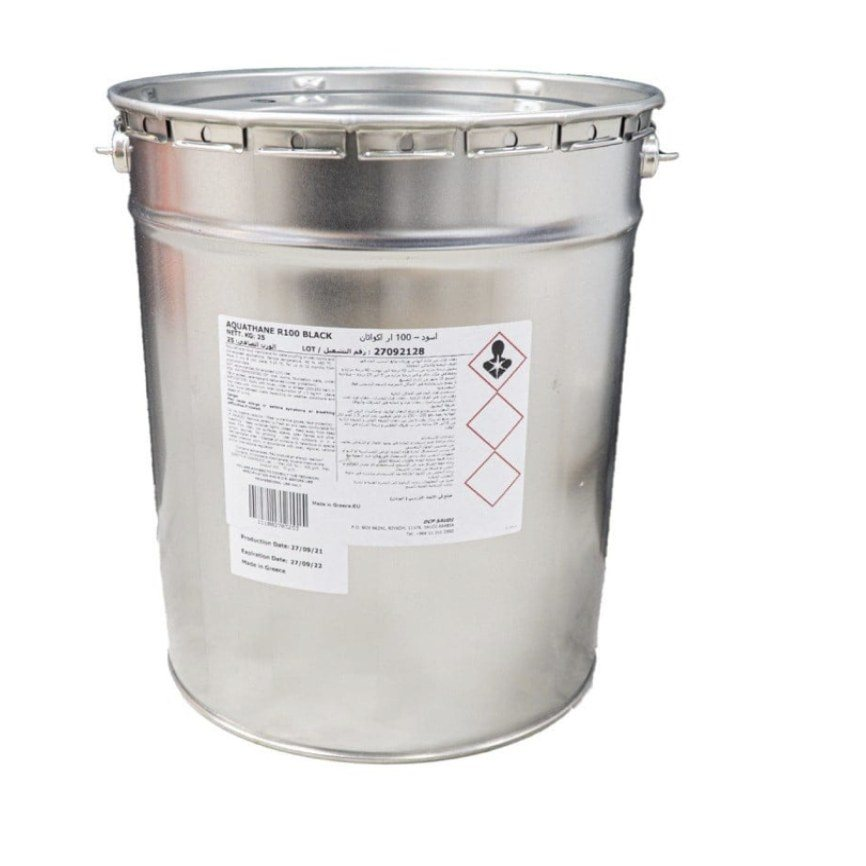
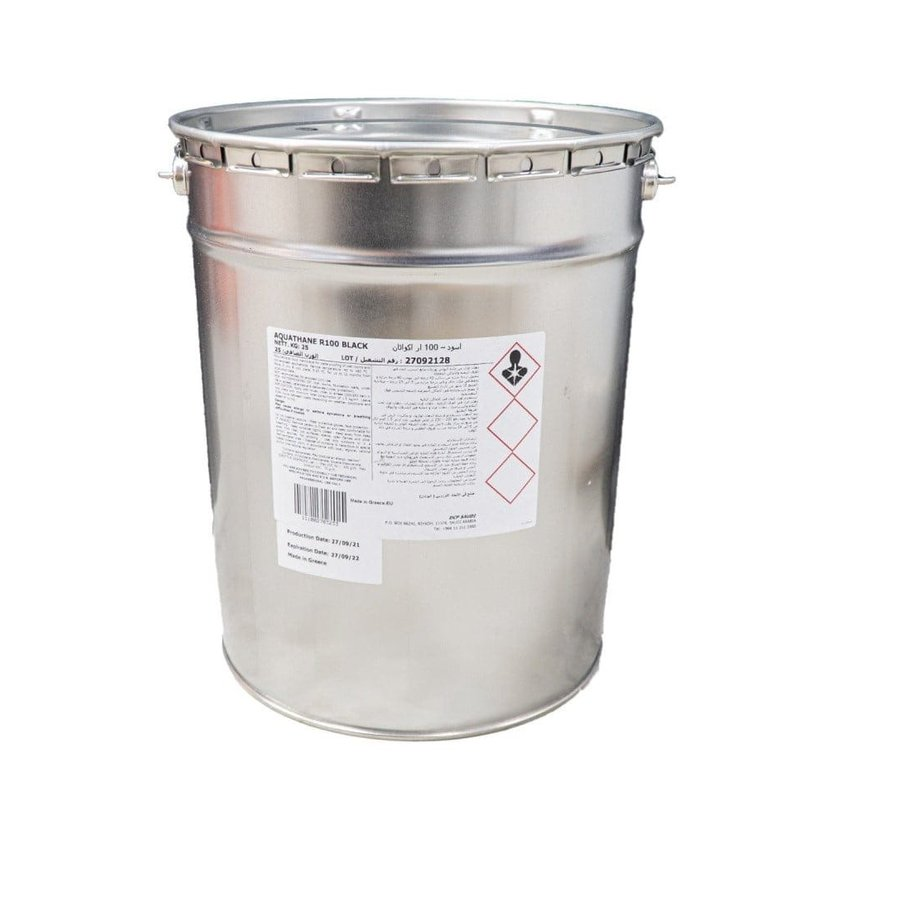
Store: replace product photos with clean originals, variant image for weberjoint
Claude-Session: https://claude.ai/code/session_01L7aFpuZDN8bdeKYBYfcc1B

Changed region(s): [[0.1247, 0.0624, 0.7794, 0.9042]]

diff --git a/store/index.html b/store/index.html
@@ -12,7 +12,7 @@
 <link rel="icon" href="/assets/mark.png">
 <link rel="preconnect" href="https://fonts.googleapis.com"><link rel="preconnect" href="https://fonts.gstatic.com" crossorigin>
 <link href="https://fonts.googleapis.com/css2?family=Noto+Kufi+Arabic:wght@600;700;800&family=Almarai:wght@400;700;800&display=swap" rel="stylesheet">
-<link rel="stylesheet" href="/store/assets/store.css?v=1">
+<link rel="stylesheet" href="/store/assets/store.css?v=2">
 <script type="application/ld+json">{"@context": "https://schema.org", "@type": "ItemList", "name": "متجر وهاد البنيان لمواد العزل", "itemListElement": [{"@type": "ListItem", "position": 1, "url": "https://www.wehadcoo.com/store/weberdry-150-blc/", "name": "ويبر دراي 150 BLC"}, {"@type": "ListItem", "position": 2, "url": "https://www.wehadcoo.com/store/spcf-silver/", "name": "سلفر — دهان عازل مائي أكريليك"}, {"@type": "ListItem", "position": 3, "url": "https://www.wehadcoo.com/store/starproof-pud-337/", "name": "ستار بروف PUD-337"}, {"@type": "ListItem", "position": 4, "url": "https://www.wehadcoo.com/store/strongcoat-pe350/", "name": "سترونج كوت PE350"}, {"@type": "ListItem", "position": 5, "url": "https://www.wehadcoo.com/store/expansion-joint-foam/", "name": "فلين فواصل التمدد"}, {"@type": "ListItem", "position": 6, "url": "https://www.wehadcoo.com/store/strongcoat-epw/", "name": "سترونج كوت EPW"}, {"@type": "ListItem", "position": 7, "url": "https://www.wehadcoo.com/store/delmon-lastroof/", "name": "الاستوروف — عازل مطاطي للأسطح"}, {"@type": "ListItem", "position": 8, "url": "https://www.wehadcoo.com/store/delmon-durashield/", "name": "ديوراشيلد — عازل دورات المياه"}, {"@type": "ListItem", "position": 9, "url": "https://www.wehadcoo.com/store/zat-pp-fibers/", "name": "ألياف زات PP لتقوية الخرسانة"}, {"@type": "ListItem", "position": 10, "url": "https://www.wehadcoo.com/store/weberjoint/", "name": "ويبر جوينت — ترويبة إسمنتية"}, {"@type": "ListItem", "position": 11, "url": "https://www.wehadcoo.com/store/weberepox-easy/", "name": "ويبر إيبوكس إيزي"}, {"@type": "ListItem", "position": 12, "url": "https://www.wehadcoo.com/store/dcp-setseal-c/", "name": "سيت سيل C"}, {"@type": "ListItem", "position": 13, "url": "https://www.wehadcoo.com/store/polybit-polyflex/", "name": "بولي فلكس"}, {"@type": "ListItem", "position": 14, "url": "https://www.wehadcoo.com/store/weberdry-110-fx/", "name": "ويبر دراي 110 FX"}, {"@type": "ListItem", "position": 15, "url": "https://www.wehadcoo.com/store/strongcoat-400-plus/", "name": "سترونج كوت 400 بلس"}, {"@type": "ListItem", "position": 16, "url": "https://www.wehadcoo.com/store/arkaz-eneseal-pu/", "name": "إنسيل PU — سيلانت فواصل التمدد"}, {"@type": "ListItem", "position": 17, "url": "https://www.wehadcoo.com/store/polybit-polycoat/", "name": "بولي كوت — عازل القواعد"}, {"@type": "ListItem", "position": 18, "url": "https://www.wehadcoo.com/store/dcp-aquaguard-600/", "name": "أكوا جارد 600"}, {"@type": "ListItem", "position": 19, "url": "https://www.wehadcoo.com/store/dcp-aquathane-r100/", "name": "أكواثان R100"}, {"@type": "ListItem", "position": 20, "url": "https://www.wehadcoo.com/store/pvc-waterstop/", "name": "ووتر ستوب أزرق"}]}</script>
 </head>
 <body>
@@ -144,7 +144,7 @@
     </div>
   </div>
 </article><article class="card" data-cat="joints" data-q="ويبر جوينت — ترويبة إسمنتية weberjoint ترويبة بلاط إسمنتية Weber · ويبر">
-  <a href="/store/weberjoint/" class="card-img"><img src="/store/img/weberjoint.jpg" alt="ويبر جوينت — ترويبة إسمنتية" loading="lazy" width="600" height="600"></a>
+  <a href="/store/weberjoint/" class="card-img"><img src="/store/img/weberjoint.jpg" alt="ويبر جوينت — ترويبة إسمنتية" loading="lazy" width="600" height="600" class="cov"></a>
   <div class="card-body">
     <span class="brand-t">Weber · ويبر</span>
     <h3><a href="/store/weberjoint/">ويبر جوينت — ترويبة إسمنتية</a></h3>
@@ -177,7 +177,7 @@
     </div>
   </div>
 </article><article class="card" data-cat="cement" data-q="بولي فلكس Polybit Polyflex عازل إسمنتي مرن ثنائي المكونات Henkel Polybit · هنكل بوليبت">
-  <a href="/store/polybit-polyflex/" class="card-img"><img src="/store/img/polyflex.jpg" alt="بولي فلكس" loading="lazy" width="600" height="600"></a>
+  <a href="/store/polybit-polyflex/" class="card-img"><img src="/store/img/polyflex.jpg" alt="بولي فلكس" loading="lazy" width="600" height="600" class="cov"></a>
   <div class="card-body">
     <span class="brand-t">Henkel Polybit · هنكل بوليبت</span>
     <h3><a href="/store/polybit-polyflex/">بولي فلكس</a></h3>
@@ -199,7 +199,7 @@
     </div>
   </div>
 </article><article class="card" data-cat="wet" data-q="سترونج كوت 400 بلس DCP Strongcoat 400 Plus إيبوكسي عزل خزانات المياه DCP">
-  <a href="/store/strongcoat-400-plus/" class="card-img"><img src="/store/img/strongcoat-400plus.jpg" alt="سترونج كوت 400 بلس" loading="lazy" width="600" height="600"></a>
+  <a href="/store/strongcoat-400-plus/" class="card-img"><img src="/store/img/strongcoat-400plus.jpg" alt="سترونج كوت 400 بلس" loading="lazy" width="600" height="600" class="cov"></a>
   <div class="card-body">
     <span class="brand-t">DCP</span>
     <h3><a href="/store/strongcoat-400-plus/">سترونج كوت 400 بلس</a></h3>
@@ -288,7 +288,7 @@
 </div>
 <div class="toast" id="toast" role="status" aria-live="polite"></div>
 <script>window.WEHAD_API="https://script.google.com/macros/s/AKfycbxpFTQC9pVZK1AZOQ7nzzNt7HpwVoqfOZjSZ5l0cFBCJinjIjsWhcJo6287wrbz6fr61w/exec";window.WEHAD_WA="966552027770";</script>
-<script src="/store/assets/products.js?v=1"></script>
-<script src="/store/assets/store.js?v=1"></script>
+<script src="/store/assets/products.js?v=2"></script>
+<script src="/store/assets/store.js?v=2"></script>
 </body>
 </html>

diff --git a/store/weberjoint/index.html b/store/weberjoint/index.html
@@ -12,7 +12,7 @@
 <link rel="icon" href="/assets/mark.png">
 <link rel="preconnect" href="https://fonts.googleapis.com"><link rel="preconnect" href="https://fonts.gstatic.com" crossorigin>
 <link href="https://fonts.googleapis.com/css2?family=Noto+Kufi+Arabic:wght@600;700;800&family=Almarai:wght@400;700;800&display=swap" rel="stylesheet">
-<link rel="stylesheet" href="/store/assets/store.css?v=1">
+<link rel="stylesheet" href="/store/assets/store.css?v=2">
 <meta property="og:image" content="https://www.wehadcoo.com/store/img/weberjoint.jpg"><script type="application/ld+json">{"@context": "https://schema.org", "@type": "Product", "name": "ويبر جوينت — ترويبة إسمنتية", "alternateName": "weberjoint", "image": "https://www.wehadcoo.com/store/img/weberjoint.jpg", "description": "ترويبة إسمنتية جاهزة لا تنكمش، لملء فواصل البلاط في الأماكن الجافة والرطبة. مقاومة للماء وسهلة التطبيق والتنظيف، ولا تحتاج إلا للخلط مع الماء.", "brand": {"@type": "Brand", "name": "Weber"}, "offers": {"@type": "Offer", "priceCurrency": "SAR", "price": 35, "availability": "https://schema.org/InStock", "url": "https://www.wehadcoo.com/store/weberjoint/", "seller": {"@type": "Organization", "name": "وهاد البنيان"}}}</script>
 </head>
 <body>
@@ -33,14 +33,14 @@
 <div class="wrap pd" data-product="weberjoint">
   <nav class="crumb" aria-label="مسار الصفحة"><a href="/">الرئيسية</a><span>/</span><a href="/store/">المتجر</a><span>/</span><a href="/store/#joints">الفواصل والترويبة</a></nav>
   <div class="pd-grid">
-    <div class="pd-img"><img src="/store/img/weberjoint.jpg" alt="ويبر جوينت — ترويبة إسمنتية" width="900" height="900"></div>
+    <div class="pd-img cov"><img src="/store/img/weberjoint.jpg" alt="ويبر جوينت — ترويبة إسمنتية" width="900" height="900"></div>
     <div class="pd-info">
       <span class="brand-t">Weber · ويبر</span>
       <h1>ويبر جوينت — ترويبة إسمنتية</h1>
       <p class="kind">ترويبة بلاط إسمنتية · 10 كجم · أبيض / بيج</p>
       <div class="pd-price"><b data-price>35</b> <small>ريال</small><em>السعر قبل ضريبة القيمة المضافة 15%</em></div>
       <p class="lead">ترويبة إسمنتية جاهزة لا تنكمش، لملء فواصل البلاط في الأماكن الجافة والرطبة. مقاومة للماء وسهلة التطبيق والتنظيف، ولا تحتاج إلا للخلط مع الماء.</p>
-      <div class="vars" role="radiogroup" aria-label="المقاس"><label class="var"><input type="radio" name="v" value="أبيض" data-price="35" checked><span>أبيض</span></label><label class="var"><input type="radio" name="v" value="بيج" data-price="35"><span>بيج</span></label></div>
+      <div class="vars" role="radiogroup" aria-label="المقاس"><label class="var"><input type="radio" name="v" value="أبيض" data-price="35" data-img="/store/img/weberjoint.jpg" checked><span>أبيض</span></label><label class="var"><input type="radio" name="v" value="بيج" data-price="35" data-img="/store/img/weberjoint-beige.jpg"><span>بيج</span></label></div>
       <div class="buy">
         <div class="qty" aria-label="الكمية"><button type="button" data-q="+1" aria-label="زيادة">+</button><input type="number" min="1" max="999" value="1" data-qty aria-label="الكمية"><button type="button" data-q="-1" aria-label="نقصان">−</button></div>
         <button type="button" class="btn-main" data-add-pd>أضف للسلة</button>
@@ -120,7 +120,7 @@
 </div>
 <div class="toast" id="toast" role="status" aria-live="polite"></div>
 <script>window.WEHAD_API="https://script.google.com/macros/s/AKfycbxpFTQC9pVZK1AZOQ7nzzNt7HpwVoqfOZjSZ5l0cFBCJinjIjsWhcJo6287wrbz6fr61w/exec";window.WEHAD_WA="966552027770";</script>
-<script src="/store/assets/products.js?v=1"></script>
-<script src="/store/assets/store.js?v=1"></script>
+<script src="/store/assets/products.js?v=2"></script>
+<script src="/store/assets/store.js?v=2"></script>
 </body>
 </html>

diff --git a/store/expansion-joint-foam/index.html b/store/expansion-joint-foam/index.html
@@ -12,7 +12,7 @@
 <link rel="icon" href="/assets/mark.png">
 <link rel="preconnect" href="https://fonts.googleapis.com"><link rel="preconnect" href="https://fonts.gstatic.com" crossorigin>
 <link href="https://fonts.googleapis.com/css2?family=Noto+Kufi+Arabic:wght@600;700;800&family=Almarai:wght@400;700;800&display=swap" rel="stylesheet">
-<link rel="stylesheet" href="/store/assets/store.css?v=1">
+<link rel="stylesheet" href="/store/assets/store.css?v=2">
 <meta property="og:image" content="https://www.wehadcoo.com/store/img/expansion-foam.jpg"><script type="application/ld+json">{"@context": "https://schema.org", "@type": "Product", "name": "فلين فواصل التمدد", "alternateName": "Expansion Joint Backer Rod", "image": "https://www.wehadcoo.com/store/img/expansion-foam.jpg", "description": "حشوة فلين مرنة تُوضع داخل فواصل التمدد قبل حشوها بمادة الفواصل (السيلانت). تحدد عمق الحشو المناسب، وتمنع التصاق السيلانت بقاع الفاصل فيتحرك بحرية مع التمدد والانكماش.", "brand": {"@type": "Brand", "name": "فلين فواصل"}, "offers": {"@type": "Offer", "priceCurrency": "SAR", "price": 80, "availability": "https://schema.org/InStock", "url": "https://www.wehadcoo.com/store/expansion-joint-foam/", "seller": {"@type": "Organization", "name": "وهاد البنيان"}}}</script>
 </head>
 <body>
@@ -56,7 +56,7 @@
     <p class="note">المعلومات مختصرة من النشرات الفنية للشركة المصنعة. للتطبيق الصحيح والكميات المناسبة لمساحتك تواصل مع فريقنا الفني.</p>
   </div>
   <section class="rel"><h2>منتجات قد تحتاجها</h2><div class="grid sm"><article class="card" data-cat="joints" data-q="ويبر جوينت — ترويبة إسمنتية weberjoint ترويبة بلاط إسمنتية Weber · ويبر">
-  <a href="/store/weberjoint/" class="card-img"><img src="/store/img/weberjoint.jpg" alt="ويبر جوينت — ترويبة إسمنتية" loading="lazy" width="600" height="600"></a>
+  <a href="/store/weberjoint/" class="card-img"><img src="/store/img/weberjoint.jpg" alt="ويبر جوينت — ترويبة إسمنتية" loading="lazy" width="600" height="600" class="cov"></a>
   <div class="card-body">
     <span class="brand-t">Weber · ويبر</span>
     <h3><a href="/store/weberjoint/">ويبر جوينت — ترويبة إسمنتية</a></h3>
@@ -120,7 +120,7 @@
 </div>
 <div class="toast" id="toast" role="status" aria-live="polite"></div>
 <script>window.WEHAD_API="https://script.google.com/macros/s/AKfycbxpFTQC9pVZK1AZOQ7nzzNt7HpwVoqfOZjSZ5l0cFBCJinjIjsWhcJo6287wrbz6fr61w/exec";window.WEHAD_WA="966552027770";</script>
-<script src="/store/assets/products.js?v=1"></script>
-<script src="/store/assets/store.js?v=1"></script>
+<script src="/store/assets/products.js?v=2"></script>
+<script src="/store/assets/store.js?v=2"></script>
 </body>
 </html>

diff --git a/store/delmon-durashield/index.html b/store/delmon-durashield/index.html
@@ -12,7 +12,7 @@
 <link rel="icon" href="/assets/mark.png">
 <link rel="preconnect" href="https://fonts.googleapis.com"><link rel="preconnect" href="https://fonts.gstatic.com" crossorigin>
 <link href="https://fonts.googleapis.com/css2?family=Noto+Kufi+Arabic:wght@600;700;800&family=Almarai:wght@400;700;800&display=swap" rel="stylesheet">
-<link rel="stylesheet" href="/store/assets/store.css?v=1">
+<link rel="stylesheet" href="/store/assets/store.css?v=2">
 <meta property="og:image" content="https://www.wehadcoo.com/store/img/durashield.jpg"><script type="application/ld+json">{"@context": "https://schema.org", "@type": "Product", "name": "ديوراشيلد — عازل دورات المياه", "alternateName": "Delmon Durashield", "image": "https://www.wehadcoo.com/store/img/durashield.jpg", "description": "عازل مائي من دلمون يُستخدم لعزل دورات المياه والأماكن غير المعرضة لأشعة الشمس المباشرة، ويوفر طبقة حماية تساعد على منع تسرب المياه والرطوبة وحماية الأسطح الخرسانية.", "brand": {"@type": "Brand", "name": "Delmon"}, "offers": {"@type": "Offer", "priceCurrency": "SAR", "price": 190, "availability": "https://schema.org/InStock", "url": "https://www.wehadcoo.com/store/delmon-durashield/", "seller": {"@type": "Organization", "name": "وهاد البنيان"}}}</script>
 </head>
 <body>
@@ -56,7 +56,7 @@
     <p class="note">المعلومات مختصرة من النشرات الفنية للشركة المصنعة. للتطبيق الصحيح والكميات المناسبة لمساحتك تواصل مع فريقنا الفني.</p>
   </div>
   <section class="rel"><h2>منتجات قد تحتاجها</h2><div class="grid sm"><article class="card" data-cat="wet" data-q="سترونج كوت 400 بلس DCP Strongcoat 400 Plus إيبوكسي عزل خزانات المياه DCP">
-  <a href="/store/strongcoat-400-plus/" class="card-img"><img src="/store/img/strongcoat-400plus.jpg" alt="سترونج كوت 400 بلس" loading="lazy" width="600" height="600"></a>
+  <a href="/store/strongcoat-400-plus/" class="card-img"><img src="/store/img/strongcoat-400plus.jpg" alt="سترونج كوت 400 بلس" loading="lazy" width="600" height="600" class="cov"></a>
   <div class="card-body">
     <span class="brand-t">DCP</span>
     <h3><a href="/store/strongcoat-400-plus/">سترونج كوت 400 بلس</a></h3>
@@ -120,7 +120,7 @@
 </div>
 <div class="toast" id="toast" role="status" aria-live="polite"></div>
 <script>window.WEHAD_API="https://script.google.com/macros/s/AKfycbxpFTQC9pVZK1AZOQ7nzzNt7HpwVoqfOZjSZ5l0cFBCJinjIjsWhcJo6287wrbz6fr61w/exec";window.WEHAD_WA="966552027770";</script>
-<script src="/store/assets/products.js?v=1"></script>
-<script src="/store/assets/store.js?v=1"></script>
+<script src="/store/assets/products.js?v=2"></script>
+<script src="/store/assets/store.js?v=2"></script>
 </body>
 </html>

diff --git a/store/dcp-setseal-c/index.html b/store/dcp-setseal-c/index.html
@@ -12,7 +12,7 @@
 <link rel="icon" href="/assets/mark.png">
 <link rel="preconnect" href="https://fonts.googleapis.com"><link rel="preconnect" href="https://fonts.gstatic.com" crossorigin>
 <link href="https://fonts.googleapis.com/css2?family=Noto+Kufi+Arabic:wght@600;700;800&family=Almarai:wght@400;700;800&display=swap" rel="stylesheet">
-<link rel="stylesheet" href="/store/assets/store.css?v=1">
+<link rel="stylesheet" href="/store/assets/store.css?v=2">
 <meta property="og:image" content="https://www.wehadcoo.com/store/img/setseal-c.jpg"><script type="application/ld+json">{"@context": "https://schema.org", "@type": "Product", "name": "سيت سيل C", "alternateName": "DCP Setseal C", "image": "https://www.wehadcoo.com/store/img/setseal-c.jpg", "description": "طلاء إسمنتي مرن عازل للماء ومعزّز بالأكريليك من DCP. غير سام ومناسب لخزانات مياه الشرب، ويتحمل ضغط مياه عاليًا يصل إلى 30 مترًا، ويصلح للتطبيقات الداخلية والخارجية.", "brand": {"@type": "Brand", "name": "DCP"}, "offers": {"@type": "Offer", "priceCurrency": "SAR", "price": 80, "availability": "https://schema.org/InStock", "url": "https://www.wehadcoo.com/store/dcp-setseal-c/", "seller": {"@type": "Organization", "name": "وهاد البنيان"}}}</script>
 </head>
 <body>
@@ -56,7 +56,7 @@
     <p class="note">المعلومات مختصرة من النشرات الفنية للشركة المصنعة. للتطبيق الصحيح والكميات المناسبة لمساحتك تواصل مع فريقنا الفني.</p>
   </div>
   <section class="rel"><h2>منتجات قد تحتاجها</h2><div class="grid sm"><article class="card" data-cat="cement" data-q="بولي فلكس Polybit Polyflex عازل إسمنتي مرن ثنائي المكونات Henkel Polybit · هنكل بوليبت">
-  <a href="/store/polybit-polyflex/" class="card-img"><img src="/store/img/polyflex.jpg" alt="بولي فلكس" loading="lazy" width="600" height="600"></a>
+  <a href="/store/polybit-polyflex/" class="card-img"><img src="/store/img/polyflex.jpg" alt="بولي فلكس" loading="lazy" width="600" height="600" class="cov"></a>
   <div class="card-body">
     <span class="brand-t">Henkel Polybit · هنكل بوليبت</span>
     <h3><a href="/store/polybit-polyflex/">بولي فلكس</a></h3>
@@ -120,7 +120,7 @@
 </div>
 <div class="toast" id="toast" role="status" aria-live="polite"></div>
 <script>window.WEHAD_API="https://script.google.com/macros/s/AKfycbxpFTQC9pVZK1AZOQ7nzzNt7HpwVoqfOZjSZ5l0cFBCJinjIjsWhcJo6287wrbz6fr61w/exec";window.WEHAD_WA="966552027770";</script>
-<script src="/store/assets/products.js?v=1"></script>
-<script src="/store/assets/store.js?v=1"></script>
+<script src="/store/assets/products.js?v=2"></script>
+<script src="/store/assets/store.js?v=2"></script>
 </body>
 </html>

diff --git a/store/dcp-aquathane-r100/index.html b/store/dcp-aquathane-r100/index.html
@@ -12,7 +12,7 @@
 <link rel="icon" href="/assets/mark.png">
 <link rel="preconnect" href="https://fonts.googleapis.com"><link rel="preconnect" href="https://fonts.gstatic.com" crossorigin>
 <link href="https://fonts.googleapis.com/css2?family=Noto+Kufi+Arabic:wght@600;700;800&family=Almarai:wght@400;700;800&display=swap" rel="stylesheet">
-<link rel="stylesheet" href="/store/assets/store.css?v=1">
+<link rel="stylesheet" href="/store/assets/store.css?v=2">
 <meta property="og:image" content="https://www.wehadcoo.com/store/img/aquathane-r100.jpg"><script type="application/ld+json">{"@context": "https://schema.org", "@type": "Product", "name": "أكواثان R100", "alternateName": "DCP Aquathane R100", "image": "https://www.wehadcoo.com/store/img/aquathane-r100.jpg", "description": "غشاء عزل سائل من البولي يوريثان أحادي المكون عالي الجودة، يلتصق بقوة بمعظم الأسطح ويسمح بمرور بخار الماء فيمنع تجمع الرطوبة تحت الطبقة. النسخة السوداء مخصصة للأماكن الرطبة والمناطق غير المكشوفة مثل دورات المياه.", "brand": {"@type": "Brand", "name": "DCP"}, "offers": {"@type": "Offer", "priceCurrency": "SAR", "price": 400, "availability": "https://schema.org/InStock", "url": "https://www.wehadcoo.com/store/dcp-aquathane-r100/", "seller": {"@type": "Organization", "name": "وهاد البنيان"}}}</script>
 </head>
 <body>
@@ -67,7 +67,7 @@
     </div>
   </div>
 </article><article class="card" data-cat="wet" data-q="سترونج كوت 400 بلس DCP Strongcoat 400 Plus إيبوكسي عزل خزانات المياه DCP">
-  <a href="/store/strongcoat-400-plus/" class="card-img"><img src="/store/img/strongcoat-400plus.jpg" alt="سترونج كوت 400 بلس" loading="lazy" width="600" height="600"></a>
+  <a href="/store/strongcoat-400-plus/" class="card-img"><img src="/store/img/strongcoat-400plus.jpg" alt="سترونج كوت 400 بلس" loading="lazy" width="600" height="600" class="cov"></a>
   <div class="card-body">
     <span class="brand-t">DCP</span>
     <h3><a href="/store/strongcoat-400-plus/">سترونج كوت 400 بلس</a></h3>
@@ -120,7 +120,7 @@
 </div>
 <div class="toast" id="toast" role="status" aria-live="polite"></div>
 <script>window.WEHAD_API="https://script.google.com/macros/s/AKfycbxpFTQC9pVZK1AZOQ7nzzNt7HpwVoqfOZjSZ5l0cFBCJinjIjsWhcJo6287wrbz6fr61w/exec";window.WEHAD_WA="966552027770";</script>
-<script src="/store/assets/products.js?v=1"></script>
-<script src="/store/assets/store.js?v=1"></script>
+<script src="/store/assets/products.js?v=2"></script>
+<script src="/store/assets/store.js?v=2"></script>
 </body>
 </html>

diff --git a/store/weberepox-easy/index.html b/store/weberepox-easy/index.html
@@ -12,7 +12,7 @@
 <link rel="icon" href="/assets/mark.png">
 <link rel="preconnect" href="https://fonts.googleapis.com"><link rel="preconnect" href="https://fonts.gstatic.com" crossorigin>
 <link href="https://fonts.googleapis.com/css2?family=Noto+Kufi+Arabic:wght@600;700;800&family=Almarai:wght@400;700;800&display=swap" rel="stylesheet">
-<link rel="stylesheet" href="/store/assets/store.css?v=1">
+<link rel="stylesheet" href="/store/assets/store.css?v=2">
 <meta property="og:image" content="https://www.wehadcoo.com/store/img/weberepox-easy.jpg"><script type="application/ld+json">{"@context": "https://schema.org", "@type": "Product", "name": "ويبر إيبوكس إيزي", "alternateName": "weberepox easy", "image": "https://www.wehadcoo.com/store/img/weberepox-easy.jpg", "description": "ترويبة ولاصق بلاط إيبوكسي ثنائي المكون عالي الأداء، يُنظف بالماء بسهولة، ويتميز بمقاومة ممتازة للكيماويات وقوة عالية. مناسب للأماكن التي تحتاج نظافة عالية أو تتعرض لمواد كيميائية.", "brand": {"@type": "Brand", "name": "Weber"}, "offers": {"@type": "Offer", "priceCurrency": "SAR", "price": 140, "availability": "https://schema.org/InStock", "url": "https://www.wehadcoo.com/store/weberepox-easy/", "seller": {"@type": "Organization", "name": "وهاد البنيان"}}}</script>
 </head>
 <body>
@@ -67,7 +67,7 @@
     </div>
   </div>
 </article><article class="card" data-cat="joints" data-q="ويبر جوينت — ترويبة إسمنتية weberjoint ترويبة بلاط إسمنتية Weber · ويبر">
-  <a href="/store/weberjoint/" class="card-img"><img src="/store/img/weberjoint.jpg" alt="ويبر جوينت — ترويبة إسمنتية" loading="lazy" width="600" height="600"></a>
+  <a href="/store/weberjoint/" class="card-img"><img src="/store/img/weberjoint.jpg" alt="ويبر جوينت — ترويبة إسمنتية" loading="lazy" width="600" height="600" class="cov"></a>
   <div class="card-body">
     <span class="brand-t">Weber · ويبر</span>
     <h3><a href="/store/weberjoint/">ويبر جوينت — ترويبة إسمنتية</a></h3>
@@ -120,7 +120,7 @@
 </div>
 <div class="toast" id="toast" role="status" aria-live="polite"></div>
 <script>window.WEHAD_API="https://script.google.com/macros/s/AKfycbxpFTQC9pVZK1AZOQ7nzzNt7HpwVoqfOZjSZ5l0cFBCJinjIjsWhcJo6287wrbz6fr61w/exec";window.WEHAD_WA="966552027770";</script>
-<script src="/store/assets/products.js?v=1"></script>
-<script src="/store/assets/store.js?v=1"></script>
+<script src="/store/assets/products.js?v=2"></script>
+<script src="/store/assets/store.js?v=2"></script>
 </body>
 </html>

diff --git a/store/arkaz-eneseal-pu/index.html b/store/arkaz-eneseal-pu/index.html
@@ -12,7 +12,7 @@
 <link rel="icon" href="/assets/mark.png">
 <link rel="preconnect" href="https://fonts.googleapis.com"><link rel="preconnect" href="https://fonts.gstatic.com" crossorigin>
 <link href="https://fonts.googleapis.com/css2?family=Noto+Kufi+Arabic:wght@600;700;800&family=Almarai:wght@400;700;800&display=swap" rel="stylesheet">
-<link rel="stylesheet" href="/store/assets/store.css?v=1">
+<link rel="stylesheet" href="/store/assets/store.css?v=2">
 <meta property="og:image" content="https://www.wehadcoo.com/store/img/eneseal-pu.jpg"><script type="application/ld+json">{"@context": "https://schema.org", "@type": "Product", "name": "إنسيل PU — سيلانت فواصل التمدد", "alternateName": "Eneseal PU", "image": "https://www.wehadcoo.com/store/img/eneseal-pu.jpg", "description": "مادة حشو فواصل أحادية المكون من البولي يوريثان، تُطبق بمسدس السيلانت وتتصلب برطوبة الجو إلى مادة مطاطية مرنة تتحمل حركة الفاصل وتمنع تسرب المياه.", "brand": {"@type": "Brand", "name": "Arkaz"}, "offers": {"@type": "Offer", "priceCurrency": "SAR", "price": 16, "availability": "https://schema.org/InStock", "url": "https://www.wehadcoo.com/store/arkaz-eneseal-pu/", "seller": {"@type": "Organization", "name": "وهاد البنيان"}}}</script>
 </head>
 <body>
@@ -67,7 +67,7 @@
     </div>
   </div>
 </article><article class="card" data-cat="joints" data-q="ويبر جوينت — ترويبة إسمنتية weberjoint ترويبة بلاط إسمنتية Weber · ويبر">
-  <a href="/store/weberjoint/" class="card-img"><img src="/store/img/weberjoint.jpg" alt="ويبر جوينت — ترويبة إسمنتية" loading="lazy" width="600" height="600"></a>
+  <a href="/store/weberjoint/" class="card-img"><img src="/store/img/weberjoint.jpg" alt="ويبر جوينت — ترويبة إسمنتية" loading="lazy" width="600" height="600" class="cov"></a>
   <div class="card-body">
     <span class="brand-t">Weber · ويبر</span>
     <h3><a href="/store/weberjoint/">ويبر جوينت — ترويبة إسمنتية</a></h3>
@@ -120,7 +120,7 @@
 </div>
 <div class="toast" id="toast" role="status" aria-live="polite"></div>
 <script>window.WEHAD_API="https://script.google.com/macros/s/AKfycbxpFTQC9pVZK1AZOQ7nzzNt7HpwVoqfOZjSZ5l0cFBCJinjIjsWhcJo6287wrbz6fr61w/exec";window.WEHAD_WA="966552027770";</script>
-<script src="/store/assets/products.js?v=1"></script>
-<script src="/store/assets/store.js?v=1"></script>
+<script src="/store/assets/products.js?v=2"></script>
+<script src="/store/assets/store.js?v=2"></script>
 </body>
 </html>

diff --git a/store/weberdry-110-fx/index.html b/store/weberdry-110-fx/index.html
@@ -12,7 +12,7 @@
 <link rel="icon" href="/assets/mark.png">
 <link rel="preconnect" href="https://fonts.googleapis.com"><link rel="preconnect" href="https://fonts.gstatic.com" crossorigin>
 <link href="https://fonts.googleapis.com/css2?family=Noto+Kufi+Arabic:wght@600;700;800&family=Almarai:wght@400;700;800&display=swap" rel="stylesheet">
-<link rel="stylesheet" href="/store/assets/store.css?v=1">
+<link rel="stylesheet" href="/store/assets/store.css?v=2">
 <meta property="og:image" content="https://www.wehadcoo.com/store/img/weberdry-110fx.jpg"><script type="application/ld+json">{"@context": "https://schema.org", "@type": "Product", "name": "ويبر دراي 110 FX", "alternateName": "weberdry 110 FX", "image": "https://www.wehadcoo.com/store/img/weberdry-110fx.jpg", "description": "طلاء إسمنتي عازل للماء ثنائي المكون معدّل بالبوليمر، يتصلب إلى غشاء مرن ومطاطي مناسب لخزانات مياه الشرب. يلتصق بقوة بالأسطح الإسمنتية ويتحمل ضغط المياه من الجهتين (الموجب والسالب).", "brand": {"@type": "Brand", "name": "Weber"}, "offers": {"@type": "Offer", "priceCurrency": "SAR", "price": 150, "availability": "https://schema.org/InStock", "url": "https://www.wehadcoo.com/store/weberdry-110-fx/", "seller": {"@type": "Organization", "name": "وهاد البنيان"}}}</script>
 </head>
 <body>
@@ -67,7 +67,7 @@
     </div>
   </div>
 </article><article class="card" data-cat="cement" data-q="بولي فلكس Polybit Polyflex عازل إسمنتي مرن ثنائي المكونات Henkel Polybit · هنكل بوليبت">
-  <a href="/store/polybit-polyflex/" class="card-img"><img src="/store/img/polyflex.jpg" alt="بولي فلكس" loading="lazy" width="600" height="600"></a>
+  <a href="/store/polybit-polyflex/" class="card-img"><img src="/store/img/polyflex.jpg" alt="بولي فلكس" loading="lazy" width="600" height="600" class="cov"></a>
   <div class="card-body">
     <span class="brand-t">Henkel Polybit · هنكل بوليبت</span>
     <h3><a href="/store/polybit-polyflex/">بولي فلكس</a></h3>
@@ -120,7 +120,7 @@
 </div>
 <div class="toast" id="toast" role="status" aria-live="polite"></div>
 <script>window.WEHAD_API="https://script.google.com/macros/s/AKfycbxpFTQC9pVZK1AZOQ7nzzNt7HpwVoqfOZjSZ5l0cFBCJinjIjsWhcJo6287wrbz6fr61w/exec";window.WEHAD_WA="966552027770";</script>
-<script src="/store/assets/products.js?v=1"></script>
-<script src="/store/assets/store.js?v=1"></script>
+<script src="/store/assets/products.js?v=2"></script>
+<script src="/store/assets/store.js?v=2"></script>
 </body>
 </html>

diff --git a/store/polybit-polyflex/index.html b/store/polybit-polyflex/index.html
@@ -12,7 +12,7 @@
 <link rel="icon" href="/assets/mark.png">
 <link rel="preconnect" href="https://fonts.googleapis.com"><link rel="preconnect" href="https://fonts.gstatic.com" crossorigin>
 <link href="https://fonts.googleapis.com/css2?family=Noto+Kufi+Arabic:wght@600;700;800&family=Almarai:wght@400;700;800&display=swap" rel="stylesheet">
-<link rel="stylesheet" href="/store/assets/store.css?v=1">
+<link rel="stylesheet" href="/store/assets/store.css?v=2">
 <meta property="og:image" content="https://www.wehadcoo.com/store/img/polyflex.jpg"><script type="application/ld+json">{"@context": "https://schema.org", "@type": "Product", "name": "بولي فلكس", "alternateName": "Polybit Polyflex", "image": "https://www.wehadcoo.com/store/img/polyflex.jpg", "description": "عازل مائي إسمنتي مرن ثنائي المكونات، معدّل بالأكريليك لحماية فعالة ضد تسرب المياه والرطوبة. يتصلب إلى طبقة قوية ومرنة، ومناسب لعزل دورات المياه والمطابخ والأسطح الخرسانية وفق توصيات الشركة المصنعة.", "brand": {"@type": "Brand", "name": "Henkel Polybit"}, "offers": {"@type": "Offer", "priceCurrency": "SAR", "price": 75, "availability": "https://schema.org/InStock", "url": "https://www.wehadcoo.com/store/polybit-polyflex/", "seller": {"@type": "Organization", "name": "وهاد البنيان"}}}</script>
 </head>
 <body>
@@ -33,7 +33,7 @@
 <div class="wrap pd" data-product="polybit-polyflex">
   <nav class="crumb" aria-label="مسار الصفحة"><a href="/">الرئيسية</a><span>/</span><a href="/store/">المتجر</a><span>/</span><a href="/store/#cement">العزل الإسمنتي</a></nav>
   <div class="pd-grid">
-    <div class="pd-img"><img src="/store/img/polyflex.jpg" alt="بولي فلكس" width="900" height="900"></div>
+    <div class="pd-img cov"><img src="/store/img/polyflex.jpg" alt="بولي فلكس" width="900" height="900"></div>
     <div class="pd-info">
       <span class="brand-t">Henkel Polybit · هنكل بوليبت</span>
       <h1>بولي فلكس</h1>
@@ -120,7 +120,7 @@
 </div>
 <div class="toast" id="toast" role="status" aria-live="polite"></div>
 <script>window.WEHAD_API="https://script.google.com/macros/s/AKfycbxpFTQC9pVZK1AZOQ7nzzNt7HpwVoqfOZjSZ5l0cFBCJinjIjsWhcJo6287wrbz6fr61w/exec";window.WEHAD_WA="966552027770";</script>
-<script src="/store/assets/products.js?v=1"></script>
-<script src="/store/assets/store.js?v=1"></script>
+<script src="/store/assets/products.js?v=2"></script>
+<script src="/store/assets/store.js?v=2"></script>
 </body>
 </html>

diff --git a/store/strongcoat-400-plus/index.html b/store/strongcoat-400-plus/index.html
@@ -12,7 +12,7 @@
 <link rel="icon" href="/assets/mark.png">
 <link rel="preconnect" href="https://fonts.googleapis.com"><link rel="preconnect" href="https://fonts.gstatic.com" crossorigin>
 <link href="https://fonts.googleapis.com/css2?family=Noto+Kufi+Arabic:wght@600;700;800&family=Almarai:wght@400;700;800&display=swap" rel="stylesheet">
-<link rel="stylesheet" href="/store/assets/store.css?v=1">
+<link rel="stylesheet" href="/store/assets/store.css?v=2">
 <meta property="og:image" content="https://www.wehadcoo.com/store/img/strongcoat-400plus.jpg"><script type="application/ld+json">{"@context": "https://schema.org", "@type": "Product", "name": "سترونج كوت 400 بلس", "alternateName": "DCP Strongcoat 400 Plus", "image": "https://www.wehadcoo.com/store/img/strongcoat-400plus.jpg", "description": "طلاء إيبوكسي واقٍ غير سام وخالٍ من المذيبات من DCP، مناسب لخزانات مياه الشرب وبدون رائحة. يقاوم الكيماويات والفطريات ويعطي سطحًا لامعًا ناعمًا سهل التنظيف.", "brand": {"@type": "Brand", "name": "DCP"}, "offers": {"@type": "Offer", "priceCurrency": "SAR", "price": 330, "availability": "https://schema.org/InStock", "url": "https://www.wehadcoo.com/store/strongcoat-400-plus/", "seller": {"@type": "Organization", "name": "وهاد البنيان"}}}</script>
 </head>
 <body>
@@ -33,7 +33,7 @@
 <div class="wrap pd" data-product="strongcoat-400-plus">
   <nav class="crumb" aria-label="مسار الصفحة"><a href="/">الرئيسية</a><span>/</span><a href="/store/">المتجر</a><span>/</span><a href="/store/#wet">الحمامات والخزانات</a></nav>
   <div class="pd-grid">
-    <div class="pd-img"><img src="/store/img/strongcoat-400plus.jpg" alt="سترونج كوت 400 بلس" width="900" height="900"></div>
+    <div class="pd-img cov"><img src="/store/img/strongcoat-400plus.jpg" alt="سترونج كوت 400 بلس" width="900" height="900"></div>
     <div class="pd-info">
       <span class="brand-t">DCP</span>
       <h1>سترونج كوت 400 بلس</h1>
@@ -120,7 +120,7 @@
 </div>
 <div class="toast" id="toast" role="status" aria-live="polite"></div>
 <script>window.WEHAD_API="https://script.google.com/macros/s/AKfycbxpFTQC9pVZK1AZOQ7nzzNt7HpwVoqfOZjSZ5l0cFBCJinjIjsWhcJo6287wrbz6fr61w/exec";window.WEHAD_WA="966552027770";</script>
-<script src="/store/assets/products.js?v=1"></script>
-<script src="/store/assets/store.js?v=1"></script>
+<script src="/store/assets/products.js?v=2"></script>
+<script src="/store/assets/store.js?v=2"></script>
 </body>
 </html>

diff --git a/store/dcp-aquaguard-600/index.html b/store/dcp-aquaguard-600/index.html
@@ -12,7 +12,7 @@
 <link rel="icon" href="/assets/mark.png">
 <link rel="preconnect" href="https://fonts.googleapis.com"><link rel="preconnect" href="https://fonts.gstatic.com" crossorigin>
 <link href="https://fonts.googleapis.com/css2?family=Noto+Kufi+Arabic:wght@600;700;800&family=Almarai:wght@400;700;800&display=swap" rel="stylesheet">
-<link rel="stylesheet" href="/store/assets/store.css?v=1">
+<link rel="stylesheet" href="/store/assets/store.css?v=2">
 <meta property="og:image" content="https://www.wehadcoo.com/store/img/aquaguard-600.jpg"><script type="application/ld+json">{"@context": "https://schema.org", "@type": "Product", "name": "أكوا جارد 600", "alternateName": "DCP Aquaguard 600 Black", "image": "https://www.wehadcoo.com/store/img/aquaguard-600.jpg", "description": "عازل مائي مطاطي باللون الأسود من DCP، مخصص لعزل دورات المياه والأماكن الرطبة قبل التبليط، يكوّن طبقة مرنة متصلة تمنع تسرب المياه إلى الأسقف والجدران.", "brand": {"@type": "Brand", "name": "DCP"}, "offers": {"@type": "Offer", "priceCurrency": "SAR", "price": 115, "availability": "https://schema.org/InStock", "url": "https://www.wehadcoo.com/store/dcp-aquaguard-600/", "seller": {"@type": "Organization", "name": "وهاد البنيان"}}}</script>
 </head>
 <body>
@@ -67,7 +67,7 @@
     </div>
   </div>
 </article><article class="card" data-cat="wet" data-q="سترونج كوت 400 بلس DCP Strongcoat 400 Plus إيبوكسي عزل خزانات المياه DCP">
-  <a href="/store/strongcoat-400-plus/" class="card-img"><img src="/store/img/strongcoat-400plus.jpg" alt="سترونج كوت 400 بلس" loading="lazy" width="600" height="600"></a>
+  <a href="/store/strongcoat-400-plus/" class="card-img"><img src="/store/img/strongcoat-400plus.jpg" alt="سترونج كوت 400 بلس" loading="lazy" width="600" height="600" class="cov"></a>
   <div class="card-body">
     <span class="brand-t">DCP</span>
     <h3><a href="/store/strongcoat-400-plus/">سترونج كوت 400 بلس</a></h3>
@@ -120,7 +120,7 @@
 </div>
 <div class="toast" id="toast" role="status" aria-live="polite"></div>
 <script>window.WEHAD_API="https://script.google.com/macros/s/AKfycbxpFTQC9pVZK1AZOQ7nzzNt7HpwVoqfOZjSZ5l0cFBCJinjIjsWhcJo6287wrbz6fr61w/exec";window.WEHAD_WA="966552027770";</script>
-<script src="/store/assets/products.js?v=1"></script>
-<script src="/store/assets/store.js?v=1"></script>
+<script src="/store/assets/products.js?v=2"></script>
+<script src="/store/assets/store.js?v=2"></script>
 </body>
 </html>
